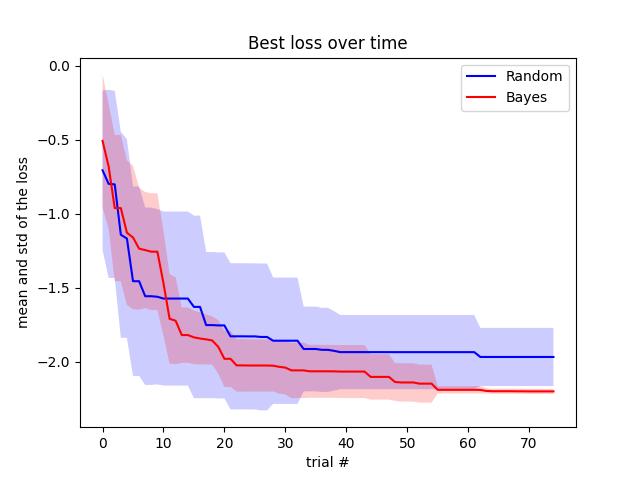
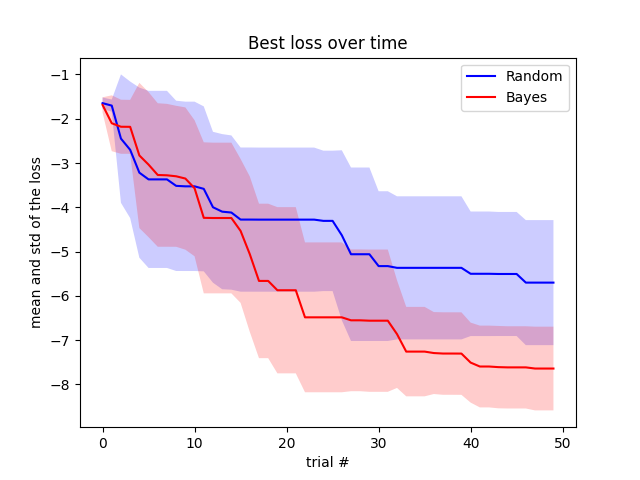
Prior points

diff --git a/main.py b/main.py
@@ -35,37 +35,40 @@ example_config = {
     'loss': {'type': 'categorical', 'values': [torch.nn.BCELoss]}
 }
 
-space = [Real(10e-5, 0.1, "log-uniform", name='lr'),
-         Categorical([opt.Adam], name='optim'),
+space = [Real(10e-4, 0.1, "log-uniform", name='lr'),
+         Categorical([opt.Adam, opt.RMSprop], name='optim'),
          Integer(1, 9, name='batch_size'),
-         Categorical([Architecture([10, 8, 6, 4]), Architecture([8, 6, 4]),
-                      Architecture([32, 16]), Architecture([12])], name='architecture'),
+         Categorical([Architecture([10, 8, 6, 4]), Architecture([8, 6, 4]), Architecture([12]),
+                      Architecture([32, 16]), Architecture([32, 16, 8, 3])], name='architecture'),
          Real(0, 0.75, name='dropout'),
-         Categorical([F.hardswish], name='activation'),
-         Categorical([torch.nn.BCELoss], name='loss')]
+         Categorical([F.hardswish, torch.tanh, torch.sigmoid, torch.relu], name='activation'),
+         Categorical([torch.nn.MSELoss], name='loss')]
 
 optimizer = Optimizer(space, data, epochs=50)
 
 
 def simple_experiment():
     start = time.time()
-    (loss_bo, model_bo, params_bo), _, best_losses_bo = optimizer.bayesian_optimize(trials=100, initial_pts=15)
+    (loss, model, params), _, _ = optimizer.bayesian_optimize(trials=100, initial_pts=15)
     print(f'Finished Bayesian search in {time.time() - start} seconds')
 
-    print(f'Optimal params \n {params_bo}')
+    print(f'Optimal params \n {params}')
 
     x, y = optimizer.get_minibatch(9)
     print(
-        f'Final validation: \ninput: {x} \noutput: {model_bo(x)} \nlabels: {y} \nloss: {loss_bo}')
+        f'Final validation: \ninput: {x} \noutput: {model(x)} \nlabels: {y} \nloss: {loss}')
 
 
 def bayes_vs_random_average():
-    NUM_EXPERIMENTS = 1
+    NUM_EXPERIMENTS = 5
     NUM_EVALUATIONS = 50
+
     results_ra = np.ndarray((NUM_EXPERIMENTS, NUM_EVALUATIONS))
+    prior_params = []
     for i in range(NUM_EXPERIMENTS):
         (_, _, p), _, bests = optimizer.random_search_optimize(NUM_EVALUATIONS)
         results_ra[i, :] = np.clip(bests, float('-inf'), 0)
+        prior_params.append(p)
 
     plt.figure()
     plt.title("Best loss over time")
@@ -77,26 +80,38 @@ def bayes_vs_random_average():
     plt.plot(mean_ra, color='blue', label='Random')
     plt.fill_between(range(NUM_EVALUATIONS), mean_ra + std_ra, mean_ra - std_ra, facecolor='blue', alpha=0.2)
 
-    print(f'random search finished with {mean_ra[-1]} \n params are {p}')
+    print(f'random search finished with {mean_ra[-1]} \nparams are {prior_params[0]}')
 
-    results_bo = np.ndarray((NUM_EXPERIMENTS, NUM_EVALUATIONS))
-    losses_bo = np.ndarray((NUM_EXPERIMENTS, NUM_EVALUATIONS))
+    # results_bo = np.ndarray((NUM_EXPERIMENTS, NUM_EVALUATIONS))
+    # for i in range(NUM_EXPERIMENTS):
+    #     (_, _, p), losses, bests = optimizer.bayesian_optimize(NUM_EVALUATIONS, 10, acq_func='PI')
+    #     results_bo[i, :] = np.clip(bests, float('-inf'), 0)
+    #
+    # mean_bo = results_bo.mean(axis=0)
+    # std_bo = results_bo.std(axis=0)
+    # plt.plot(mean_bo, color='red', label='Bayes')
+    # plt.fill_between(range(NUM_EVALUATIONS), mean_bo + std_bo, mean_bo - std_bo, facecolor='red', alpha=0.2)
+    # print(f'Bayesian search finished with {mean_bo[-1]} \n params are {prior_params[-1]}')
+
+    results_prior = np.ndarray((NUM_EXPERIMENTS, NUM_EVALUATIONS))
     for i in range(NUM_EXPERIMENTS):
-        (_, _, p), losses, bests = optimizer.bayesian_optimize(NUM_EVALUATIONS, 10)
-        results_bo[i, :] = np.clip(bests, float('-inf'), 0)
-        losses_bo[i, :] = np.clip(losses, float('-inf'), 0)
+        prior_points = [list(p.values()) for p in prior_params]
+        y_vals = [optimizer.run_experiment(p)[0].item() for p in prior_params]
 
-    mean_bo = results_bo.mean(axis=0)
-    std_bo = results_bo.std(axis=0)
-    mean_bo_inst = losses_bo.mean(axis=0)
-    plt.plot(mean_bo, color='red', label='Bayes')
-    plt.fill_between(range(NUM_EVALUATIONS), mean_bo + std_bo, mean_bo - std_bo, facecolor='red', alpha=0.2)
+        (_, _, p), losses, bests = optimizer.bayesian_optimize(NUM_EVALUATIONS, 5, x0=prior_points,
+                                                               y0=y_vals, acq_func='LCB', kappa=2)
+        results_prior[i, :] = np.clip(bests, float('-inf'), 0)
+
+    mean_pr = results_prior.mean(axis=0)
+    std_pr = results_prior.std(axis=0)
+
+    plt.plot(mean_pr, color='green', label='Bayes with priors')
+    plt.fill_between(range(NUM_EVALUATIONS), mean_pr + std_pr, mean_pr - std_pr, facecolor='green', alpha=0.2)
+
+    print(f'Bayesian search with priors finished with {mean_pr[-1]} \nparams are {p}')
     plt.legend()
-    plt.savefig(f'{NUM_EXPERIMENTS} experiments.png')
-    plt.plot(mean_bo_inst, color='green')
     plt.show()
 
-    print(f'Bayesian search finished with {mean_bo[-1]} \n params are {p}')
 
-
-simple_experiment()
+# simple_experiment()
+bayes_vs_random_average()

diff --git a/optimizer.py b/optimizer.py
@@ -68,7 +68,7 @@ class Optimizer:
         # Evaluate
         x, y = self.get_minibatch(self.data.shape[0])
         pred = net(x)
-        validate_loss = nn.BCELoss()
+        validate_loss = nn.MSELoss()
         loss = validate_loss(pred, y)
 
         return loss, net
@@ -100,8 +100,8 @@ class Optimizer:
             if loss < self.best_result[0]:
                 self.best_result = (loss, model, params)
 
-            self.losses.append(math.log(loss.item() + 1e-15))
-            self.best_losses.append(math.log(self.best_result[0].item() + 1e-15))
+            self.losses.append(math.log(loss.item() + 1e-15, 2))
+            self.best_losses.append(math.log(self.best_result[0].item() + 1e-15, 2))
 
         return self.best_result, self.losses, self.best_losses
 
@@ -115,30 +115,32 @@ class Optimizer:
             params = self.sample_random()
 
             loss, model = self.run_experiment(params)
-            self.losses.append(math.log(loss.item() + 1e-15))
+            self.losses.append(math.log(loss.item() + 1e-15, 2))
             if loss < self.best_result[0]:
                 self.best_result = (loss, model, params)
-            self.best_losses.append(math.log(self.best_result[0].item() + 1e-15))
+                print('found an improvement at time ', self.count)
+            self.best_losses.append(math.log(self.best_result[0].item() + 1e-15, 2))
 
         return self.best_result, self.losses, self.best_losses
 
-    def bayesian_optimize(self, trials, initial_pts, acq_func='LCB', acq_optimizer='sampling', n_points=1000, xi=0.005,
-                          kappa=1.5):
+    def bayesian_optimize(self, trials, initial_pts, acq_func='PI', acq_optimizer='sampling', n_points=1000, xi=0.005,
+                          kappa=1.5, initial_point_generator='halton', x0=None, y0=None):
         self.reset_metrics()
-        print(f'Running bayesian search through {trials} points')
+        print(f'Running bayesian search through {trials} points {"WITH PRIORS" if x0 else ""}')
 
         @use_named_args(self.space)
         def objective(**params):
             loss, model = self.run_experiment(params)
-            self.losses.append(math.log(loss.item() + 1e-15))
+            self.losses.append(math.log(loss.item() + 1e-15, 2))
             if loss < self.best_result[0]:
                 self.best_result = (loss, model, params)
-            self.best_losses.append(math.log(self.best_result[0].item() + 1e-15))
+                print('found an improvement at time ', self.count)
+            self.best_losses.append(math.log(self.best_result[0].item() + 1e-15, 2))
             return loss.item()
 
         gp_minimize(objective, self.space, n_calls=trials,
                     n_initial_points=initial_pts, acq_func=acq_func, acq_optimizer=acq_optimizer, n_points=n_points,
-                    xi=xi, kappa=kappa)
+                    xi=xi, kappa=kappa, initial_point_generator=initial_point_generator, x0=x0, y0=y0)
 
         return self.best_result, self.losses, self.best_losses
 
